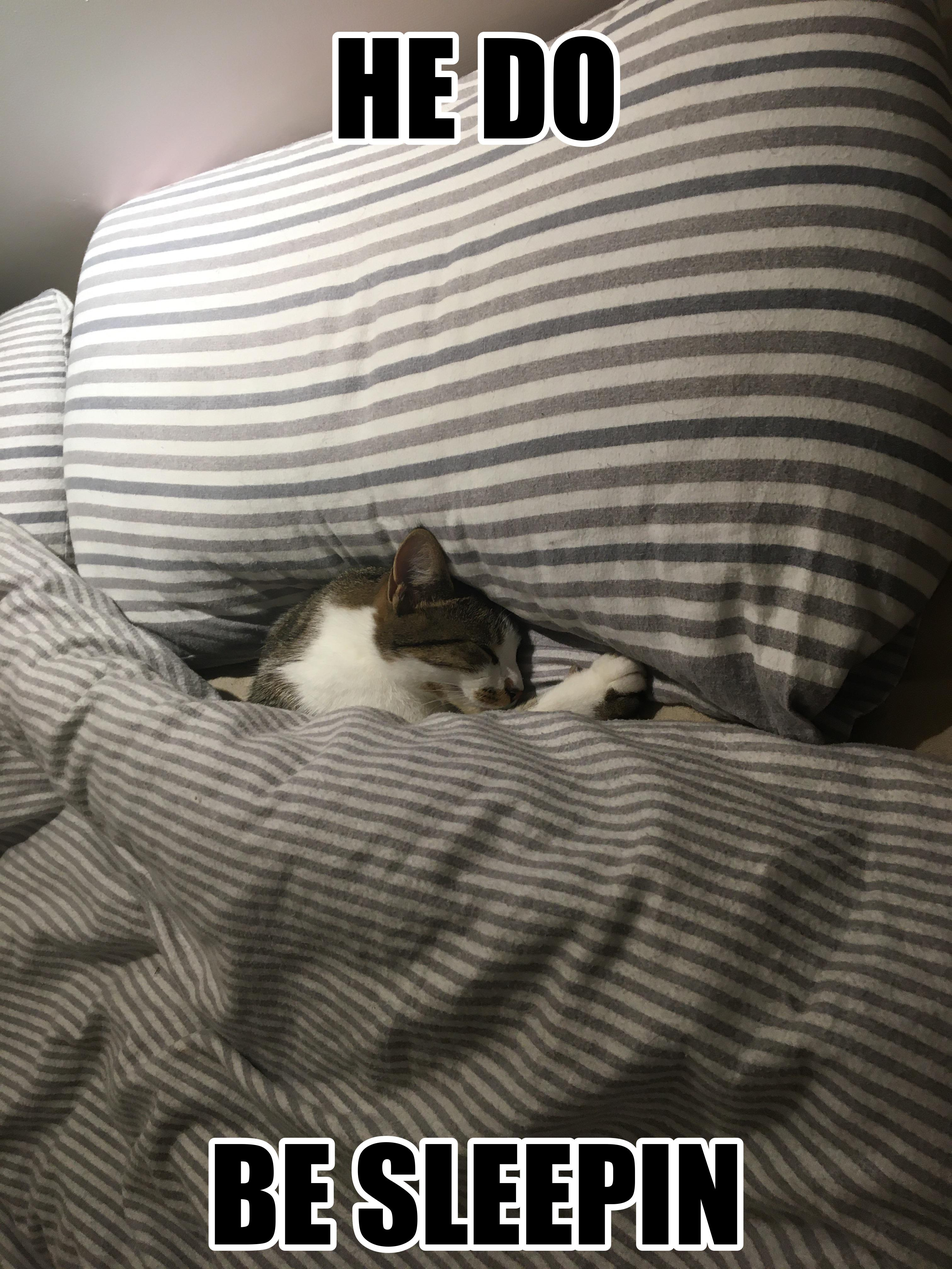
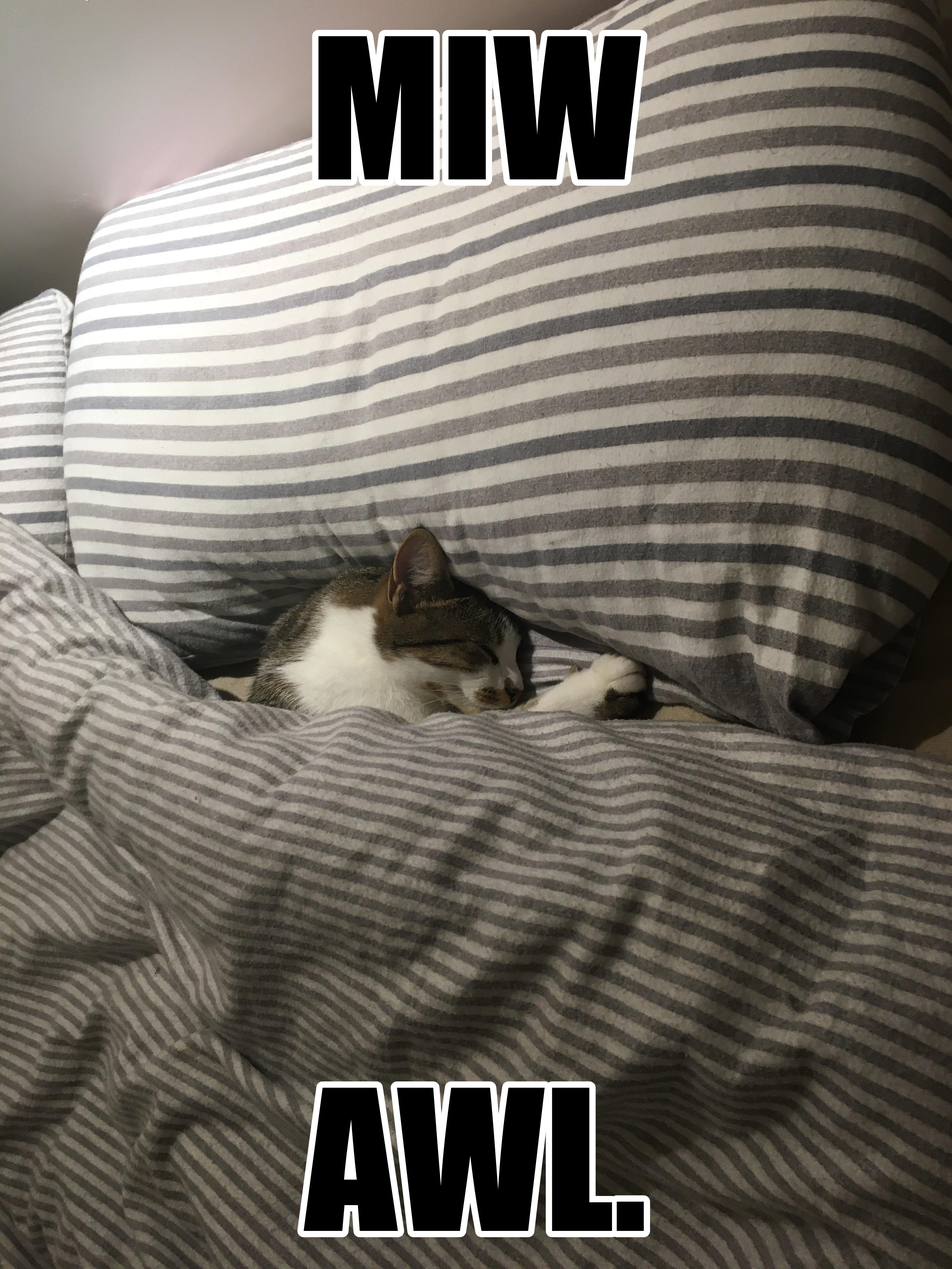
even more memes

Changed region(s): [[0.2176, 0.8438, 0.8082, 1.0], [0.3108, 0.0, 0.6839, 0.1562]]

diff --git a/mememaker.py b/mememaker.py
@@ -18,7 +18,7 @@ draw = ImageDraw.Draw(image)
 with Image.open(path) as img:
     width, height = img.size
 
-textsize = (height // 10)
+textsize = (height // 7)
 strokesize = (height // 200)
 
 font = ImageFont.truetype('impact.ttf', size = textsize)
